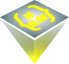
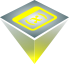
preenchendo a aba aprender

Changed region(s): [[0.1739, 0.0625, 0.8406, 0.5]]

diff --git a/B.E.E.P/Prop.js b/B.E.E.P/Prop.js
@@ -6,7 +6,8 @@ class Prop{
 		this.drawController = true;
 	}			
 
-	drawProp(){		
+	drawProp(){	
+		print(this.id);	
 		if(this.drawController){
 			if(this.positionGrid.x > int(sizeStageX/2)){ // verifica a posição do bloco e faz os ajustes necessários. 
 				for(var i = this.positionGrid.x ; i > int(sizeStageX/2); i--){ 
@@ -35,25 +36,25 @@ class Prop{
 		// Os desenhos entram aqui.
 		switch(this.id){
 			case 0:
-				image(spr_prop_00,this.position.x - 20,this.position.y - 45, 40, 40); // desenha o prop.
+				image(spr_prop_00,this.position.x - 30,this.position.y - 65, 60, 60); // desenha o prop de algoritmo.
 				break;
 			case 1:
-				image(spr_prop_01,this.position.x - 20,this.position.y - 45, 40, 40); // desenha o prop.
+				image(spr_prop_01,this.position.x - 30,this.position.y - 65, 60, 60); // desenha o prop de variável.
 				break;
 			case 2:
-				image(spr_prop_02,this.position.x - 20,this.position.y - 45, 40, 40); // desenha o prop.
+				image(spr_prop_02,this.position.x - 30,this.position.y - 65, 60, 60); // desenha o prop de fluxograma.
 				break;
 			case 3:
-				image(spr_prop_03,this.position.x - 20,this.position.y - 45, 40, 40); // desenha o prop.
+				image(spr_prop_03,this.position.x - 30,this.position.y - 65, 60, 60); // desenha o prop de interatividade.
 				break;
 			case 4:
-				image(spr_prop_04,this.position.x - 20,this.position.y - 45, 40, 40); // desenha o prop.
+				image(spr_prop_04,this.position.x - 30,this.position.y - 65, 60, 60); // desenha o prop de loop.
 				break;
 			case 5:
-				image(spr_prop_05,this.position.x - 20,this.position.y - 45, 40, 40); // desenha o prop.
+				image(spr_prop_05,this.position.x - 30,this.position.y - 65, 60, 60); // desenha o prop de condicional.
 				break;
 			case 6:
-				image(spr_prop_06,this.position.x - 20,this.position.y - 45, 40, 40); // desenha o prop.
+				image(spr_prop_06,this.position.x - 30,this.position.y - 65, 60, 60); // desenha o prop de operador lógico.
 				break;			
 			default:
 				break;		
@@ -61,10 +62,10 @@ class Prop{
 	}
 }
 
-function addProp(x,y){
+function addProp(x,y,id){
 	if ((x >= 0) && (x <= sizeStageX) && (y >= 0) && (y <= sizeStageY)){ // impede que props fora do grid sejam criados.
 		if((x != character.positionGrid.x) || (y != character.positionGrid.y)){ // impede que props sejam criados em cima do personagem.
-			prop = new Prop(x, y, 0); // cria um prop na posição especificada.
+			prop = new Prop(x, y, id); // cria um prop na posição especificada.
 			gridProp[x][y] = prop; // insere o prop criado acima no grid.
 		}		
 	}	

diff --git a/B.E.E.P/Assets.js b/B.E.E.P/Assets.js
@@ -26,6 +26,8 @@ var spr_block; // sprite da caixa.
 var spr_enemy_idle; // sprite do inimigo parado.
 var spr_press_btn_0, spr_press_btn_1; // sprites do botão pressionável normal e ativo.
 
+var bkg_learn_00, bkg_learn_01, bkg_learn_02, bkg_learn_03, bkg_learn_04, bkg_learn_05, bkg_learn_06, bkg_learn_lock; 
+
 function loadSprites(){ // carrega os sprites respectivos.
 	spr_up_0 = loadImage('assets/walk_up_0.png');
 	spr_up_1 = loadImage('assets/walk_up_1.png');
@@ -86,4 +88,14 @@ function loadSprites(){ // carrega os sprites respectivos.
 	spr_enemy_idle = loadImage('assets/spr_enemy_idle.png');
 	spr_press_btn_0 = loadImage('assets/press_button_0.png');
 	spr_press_btn_1 = loadImage('assets/press_button_1.png');
+
+	bkg_learn_00 = loadImage('assets/bkg_learn_00.png');
+	bkg_learn_01 = loadImage('assets/bkg_learn_01.png');
+	bkg_learn_02 = loadImage('assets/bkg_learn_02.png');
+	bkg_learn_03 = loadImage('assets/bkg_learn_03.png');
+	bkg_learn_04 = loadImage('assets/bkg_learn_04.png');
+	bkg_learn_05 = loadImage('assets/bkg_learn_05.png');
+	bkg_learn_06 = loadImage('assets/bkg_learn_06.png');
+	bkg_learn_lock = loadImage('assets/bkg_learn_lock.png');
+	bkg_learn_unlock = loadImage('assets/bkg_learn_unlock.png');
 }

diff --git a/B.E.E.P/Game Design.js b/B.E.E.P/Game Design.js
@@ -18,6 +18,10 @@ function setupLevel(){ // função que simula um setup.
 				isLevel = false;
 				levelChoice();
 				break;
+			case "learn":
+				isLevel = false;
+				learn();
+				break;
 			case "level_01":
 				isLevel = true; 
 				levelDesign_01();
@@ -56,6 +60,7 @@ function drawLevel(){
 	}else{
 		if(pageCode == "menu") menu();
 		else if (pageCode == "levelChoice") levelChoice();
+		else if (pageCode == "learn") learn();
 	}
 }
 
@@ -67,9 +72,13 @@ function levelChoice(){
 	loadLevelChoice();
 }
 
+function learn(){
+	loadLearn();
+}
+
 function levelDesign_01(){
 	// define o centro do grid.
-	centerGridX = 335;
+	centerGridX = 315;
 	centerGridY = 400;
 	actionTab = new ActionTab(5); // define o limite de ações permitido para o jogador.
 	procedureTab = new ProcedureTab(0);  // define o limite de ações do procedimento permitido para o jogador.
@@ -82,8 +91,8 @@ function levelDesign_01(){
 	fillGridPropNull(); // enche a matriz de objetos nulos.	
 	character = new Character(centerGridX,centerGridY); // 	inicia o personagem numa posição determinada.
 	// espaço para preencher a fase.
-	addPressButton(1,1);
-	addProp(1,3,1);			
+	addPressButton(2,1);
+	addProp(1,2,4);			
 	loadButtons();	
 }
 

diff --git a/B.E.E.P/Learn.js b/B.E.E.P/Learn.js
@@ -1,0 +1,41 @@
+var learnLock = [true,true,true,true,false,false,false]; // vetor de booleanos que diz quais props estão liberados.
+var learnIndex = 0; // endereço da página na seção de aprender.
+
+function loadLearn(){
+	print(learnIndex);
+	switch(learnIndex){
+		case 0:
+			if(learnLock[0]) image(bkg_learn_00,0,0);
+			else image(bkg_learn_lock,0,0);
+			break;
+		case 1:
+			if(learnLock[1]) image(bkg_learn_01,0,0);
+			else image(bkg_learn_lock,0,0);
+			break;
+		case 2:
+			if(learnLock[2]) image(bkg_learn_02,0,0);
+			else image(bkg_learn_lock,0,0);
+			break;
+		case 3:
+			if(learnLock[3]) image(bkg_learn_03,0,0);
+			else image(bkg_learn_lock,0,0);
+			break;
+		case 4:
+			if(learnLock[4]) image(bkg_learn_04,0,0);
+			else image(bkg_learn_lock,0,0);
+			break;
+		case 5:
+			if(learnLock[5]) image(bkg_learn_05,0,0);
+			else image(bkg_learn_lock,0,0);
+			break;
+		case 6:
+			if(learnLock[6]) image(bkg_learn_06,0,0);
+			else image(bkg_learn_lock,0,0);
+			break;
+	}		
+}
+
+function keyReleased(){
+	if((keyCode == 37) && (learnIndex > 0)) learnIndex--;
+	if((keyCode == 39) && (learnIndex < 6)) learnIndex++;
+}

diff --git a/B.E.E.P/Menu.js b/B.E.E.P/Menu.js
@@ -7,6 +7,11 @@ function loadMenu(){
 		} 
 		image(bkg_menu_start,0,0);
 	} else if (insideRect(mouseX,mouseY,795, 425, 400, 70)){
+		if (mouseIsPressed){
+			pageCode = "learn"; 
+			levelController = true;
+			isLevel = false;
+		} 
 		image(bkg_menu_learn,0,0);
 	} else if (insideRect(mouseX,mouseY,795, 512, 400, 70)){
 		image(bkg_menu_credits,0,0);

diff --git a/B.E.E.P/beep.html b/B.E.E.P/beep.html
@@ -7,6 +7,7 @@
     <script src="DecisionTab.js"></script>
     <script src="ExitButton.js"></script>
     <script src="Game Design.js"></script>
+    <script src="Learn.js"></script>
     <script src="LevelChoice.js"></script>
     <script src="Main.js"></script>
     <script src="Menu.js"></script>
